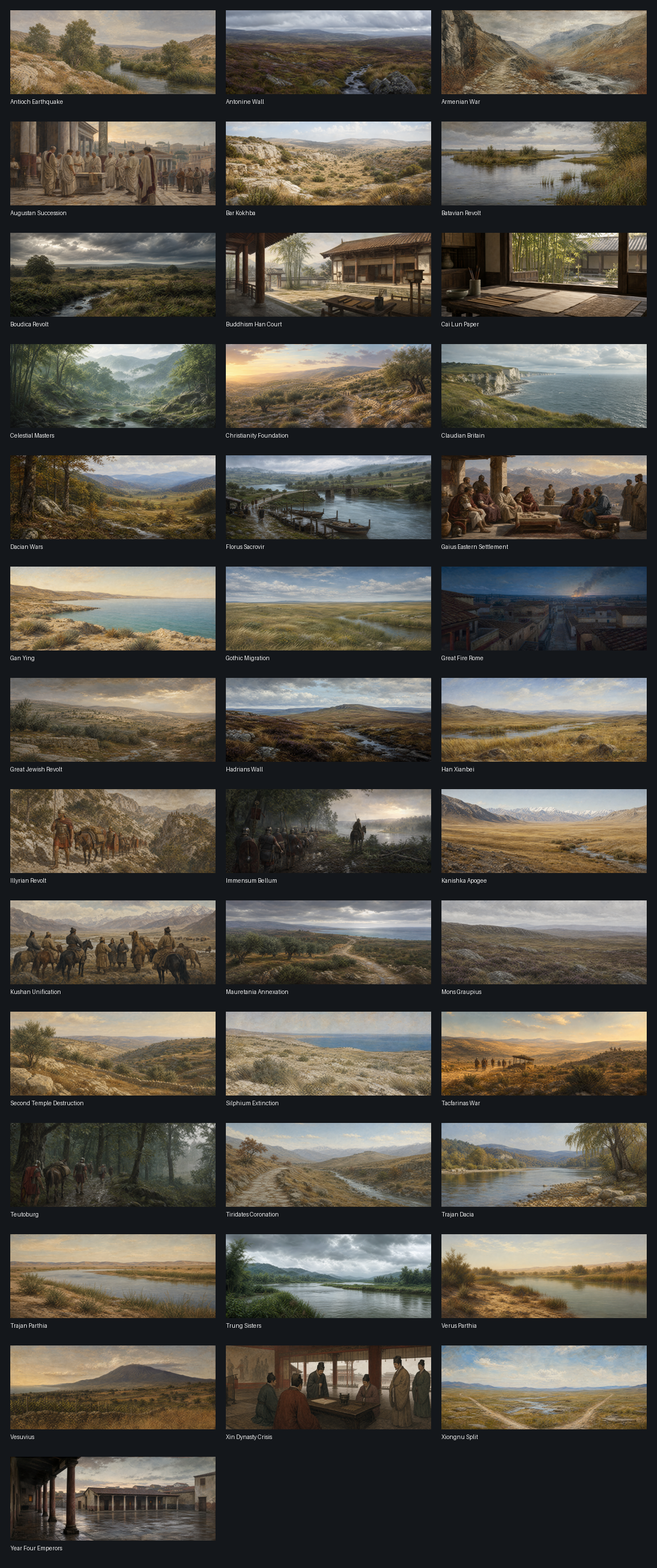
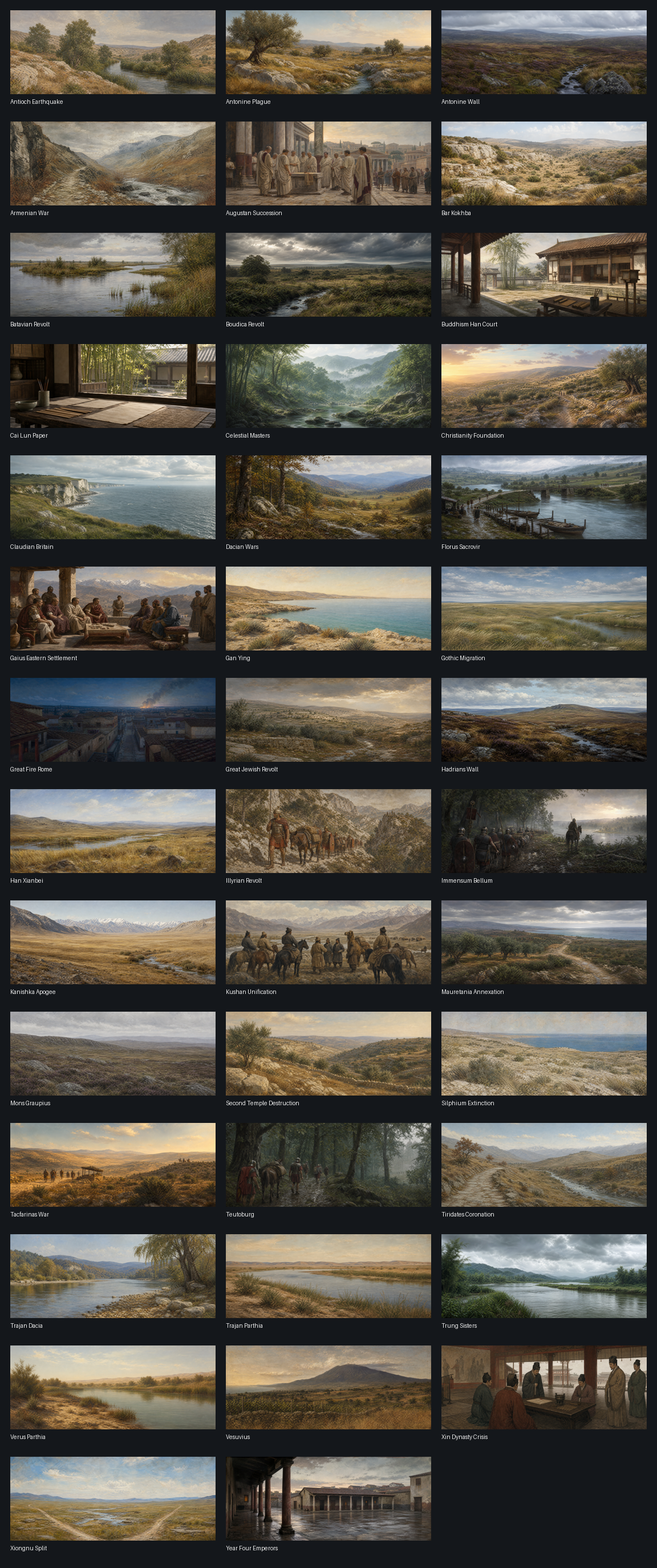
docs(m11): record Antonine plague art

diff --git a/docs/m11/contact_sheet.html b/docs/m11/contact_sheet.html
@@ -1,6 +1,7 @@
 <!doctype html>
 <html lang="en"><head><meta charset="utf-8"><title>ANTIQVITAS M11 Event Art Contact Sheet</title><style>body{background:#14171b;color:#eee;font:16px system-ui;margin:2rem}main{max-width:1200px;margin:auto}section{display:grid;grid-template-columns:repeat(3,1fr);gap:18px}figure{margin:0;background:#20252b;padding:8px}img{width:100%;height:auto;display:block}figcaption{padding:8px 2px 2px;text-transform:none}</style></head><body><main><h1>ANTIQVITAS M11 event-art review</h1><p>Generated from retained 1080x440 masters. Each image remains subject to its individual scope record.</p><section>
     <figure><img src="../../assets_queue/generated/antq_antioch_earthquake_1080x440.png" alt="Antioch Earthquake"><figcaption>Antioch Earthquake</figcaption></figure>
+    <figure><img src="../../assets_queue/generated/antq_antonine_plague_1080x440.png" alt="Antonine Plague"><figcaption>Antonine Plague</figcaption></figure>
     <figure><img src="../../assets_queue/generated/antq_antonine_wall_1080x440.png" alt="Antonine Wall"><figcaption>Antonine Wall</figcaption></figure>
     <figure><img src="../../assets_queue/generated/antq_armenian_war_1080x440.png" alt="Armenian War"><figcaption>Armenian War</figcaption></figure>
     <figure><img src="../../assets_queue/generated/antq_augustan_succession_1080x440.png" alt="Augustan Succession"><figcaption>Augustan Succession</figcaption></figure>

diff --git a/docs/TODO.md b/docs/TODO.md
@@ -228,7 +228,8 @@ after `make full` and its autonomous driver report are green.
 - [x] Generate, dimension-check, round-trip review, wire, and smoke-test the AD 142 Celestial Masters event illustration through a landscape-only inland-Chinese woodland treatment.
 - [x] Generate, dimension-check, round-trip review, wire, and smoke-test the AD 160 Gothic Migration event illustration through a landscape-only northern-Pontic steppe treatment.
 - [x] Generate, dimension-check, round-trip review, wire, and smoke-test the AD 161 Verus' Parthian War event illustration through a landscape-only Mesopotamian river-margin treatment.
-- [x] Render and review the maintained M11 event-art contact sheet (40 retained 1080x440 masters).
+- [x] Generate, dimension-check, round-trip review, wire, and smoke-test the AD 165 Antonine Plague event illustration through a landscape-only Mediterranean upland treatment.
+- [x] Render and review the maintained M11 event-art contact sheet (41 retained 1080x440 masters).
 - [ ] Reach event/decision targets; finish flags, icons, illustrations, loading/age art, localization, glossary, and credits.
 - [ ] Remove common-screen placeholders; run milestone gate and tag `M11-done`.
 

diff --git a/docs/m11/M11_ANTONINE_PLAGUE_ART.md b/docs/m11/M11_ANTONINE_PLAGUE_ART.md
@@ -1,0 +1,18 @@
+# M11 Antonine Plague illustration
+
+The retained source is `assets_queue/generated_sources/antq_antonine_plague_source.png`;
+the 1080x440 master is `assets_queue/generated/antq_antonine_plague_1080x440.png`;
+the game-facing BC7 DDS is
+`main_menu/gfx/interface/illustrations/event/antq_antonine_plague.dds`.
+
+The text-free image is generic Mediterranean upland context: empty dry meadow,
+olive trees, weathered limestone, a natural spring channel, and distant low
+hills. It identifies no person, illness, polity, settlement, medical material,
+date, or outcome. It is not a reconstruction of the Antonine Plague.
+
+`EVENT_IMAGES` in `tools/m10_second_century.py` owns the
+`antq_m10_second.2012` link. The inspected 1080x440 BC7 texture passed
+`make validate` and enabled-mod `make smoke` with zero new error-log lines.
+
+Sources: ANTIQVITAS master plan sections 8.1, 8.3, 9, and 20; local EU5
+country-event image contract.

diff --git a/docs/ASSUMPTIONS.md b/docs/ASSUMPTIONS.md
@@ -1,5 +1,16 @@
 # Historical Assumptions
 
+## 2026-07-20 - Antonine-Plague art is landscape-only Mediterranean context
+
+The image is an unoccupied Mediterranean upland of dry meadow, olive trees,
+weathered limestone, a natural spring channel, and distant low hills. It
+identifies no person, illness, death, polity, settlement, medical material,
+animal, action, date, or outcome. It deliberately excludes all illness, bodies,
+graves, mourning, doctors, medical symbols, and disaster spectacle; it is not a
+reconstruction of the Antonine Plague. Sources weighed: P8.1; P8.3; plan
+sections 9 and 20. [secure broad regional context; illustrative composition
+only]
+
 ## 2026-07-20 - Verus-Parthia art is landscape-only Mesopotamian context
 
 The image is an unoccupied Mesopotamian river margin of calm water, natural

diff --git a/docs/PROGRESS.md b/docs/PROGRESS.md
@@ -1,5 +1,15 @@
 # Progress
 
+## 2026-07-20 - M11 Antonine Plague event illustration
+
+- Added a reviewed, landscape-only Mediterranean upland image to the AD 165
+  Antonine Plague current through the generated event-image contract.
+- The engine-sized BC7 texture was round-trip inspected; `make validate` and
+  enabled-mod smoke are green with zero new error-log lines. The maintained M11
+  contact sheet now has forty-one retained event masters.
+
+Next: continue the M11 later-century art queue and source-led M5/M6 audit.
+
 ## 2026-07-20 - M11 Verus' Parthian War event illustration
 
 - Added a reviewed, landscape-only Mesopotamian river-margin image to the AD

diff --git a/docs/m11/M11_CONTACT_SHEET.md b/docs/m11/M11_CONTACT_SHEET.md
@@ -5,7 +5,7 @@ every retained `assets_queue/generated/antq_*_1080x440.png` master. The HTML
 is the browsable review surface; the PNG is the compact visual record suitable
 for inclusion in the M11 milestone report.
 
-The current review contains forty 1080x440 event masters. It was inspected for
+The current review contains forty-one 1080x440 event masters. It was inspected for
 omissions, clipped labels, incorrect aspect ratios, readable text, watermarks,
 or obvious anachronistic material. Individual asset records retain the more
 specific historical-scope findings and engine checks.
